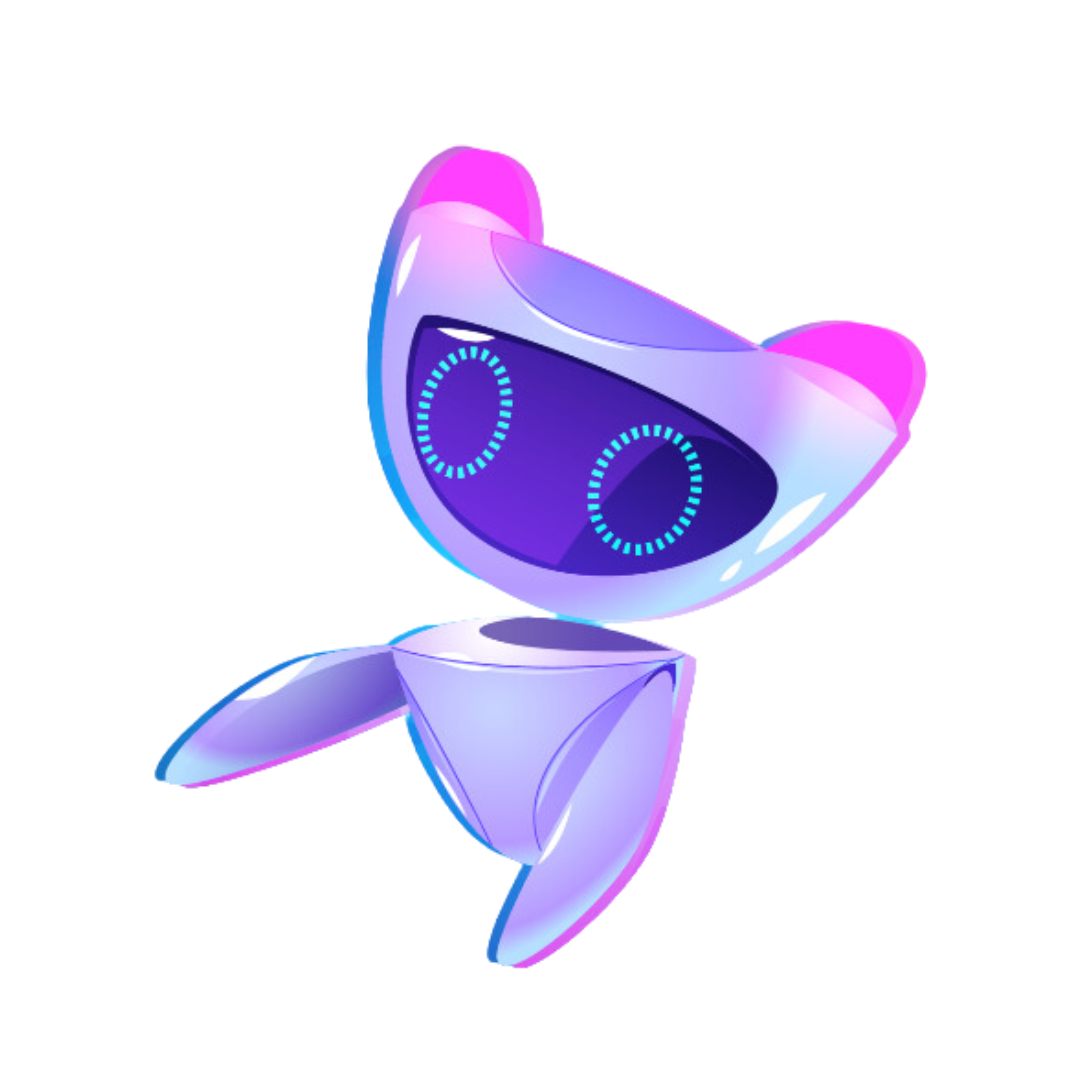
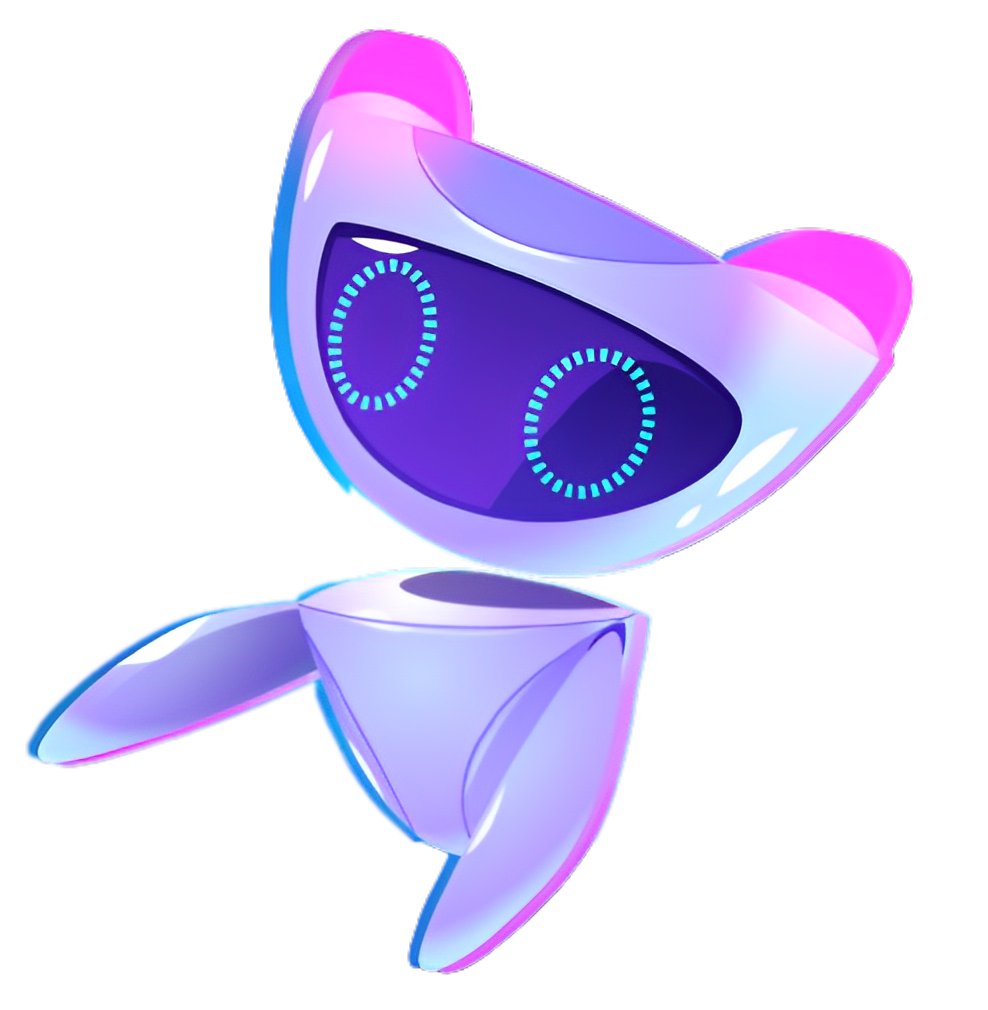
Agregado efecto de desplazamiento
Implementar efecto de desplazamiento en el elemento robot basado en el desplazamiento de la ventana

Changed region(s): [[0.0304, 0.0307, 0.9413, 0.9822]]

diff --git a/index.html b/index.html
@@ -6,16 +6,12 @@
     <meta name="viewport" content="width=device-width, initial-scale=1.0" />
     <link rel="shortcut icon" href="./img/icono.png" type="image/png" />
     <link rel="stylesheet" href="./final.css" />
-    <link rel="preload" href="./img/1.gif">
-    <link rel="preload" href="./img/2.gif">
-    <link rel="preload" href="./img/3.gif">
-    <link rel="preload" href="./img/4.gif">
     <title>NFT Marketplace</title>
   </head>
   <body class="w-full h-full overflow-auto bg-lilaDark">
     <header
       class="h-4/5 bg-center bg-cover lg:h-screen"
-      style="background-image: url('./img/bg-1.png')"
+      style="background-image: url('./img/bg.png')"
     >
       <nav class="flex items-center justify-between flex-wrap p-6 gap-5">
         <div class="flex items-center flex-shrink-0 text-gris mr-6">
@@ -94,6 +90,10 @@
           >
             Explore Now
           </button>
+        </div>
+        <div class="mt-14">
+          <img src="./img/robot.png" alt="robot-moderno"
+            class="hidden lg:block relative h-96 w-auto" id="img-robot">
         </div>
       </div>
     </header>

diff --git a/app.js b/app.js
@@ -5,6 +5,15 @@ boton.addEventListener("click", () => {
   menu.classList.toggle("hidden");
 });
 
+// Parallax
+window.onscroll = function(){
+  const robot = document.querySelector("#img-robot");
+  let position = window.pageYOffset || document.documentElement.scrollTop;
+  robot.style.bottom = `${position * 0.3}px`;
+}
+
+
+
 // Scroll
 const scrollContainer = document.querySelector(".scroll-container");
 const scrollDistance = 125;
